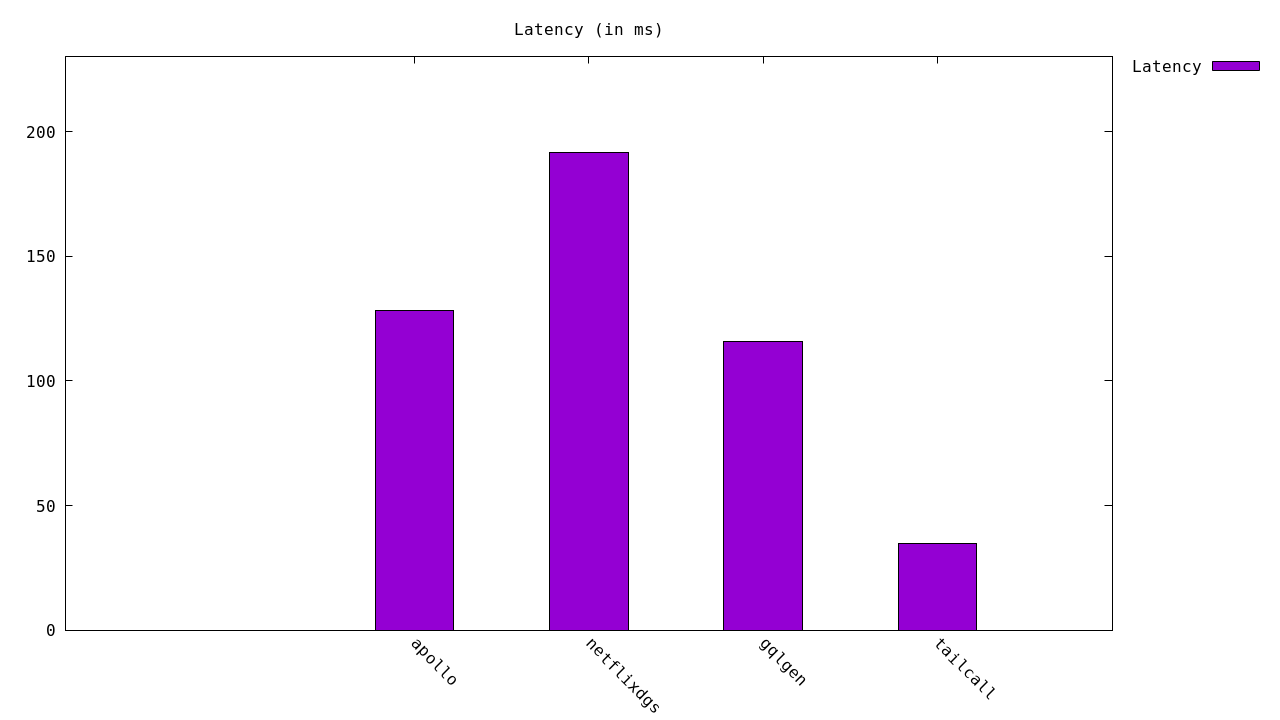
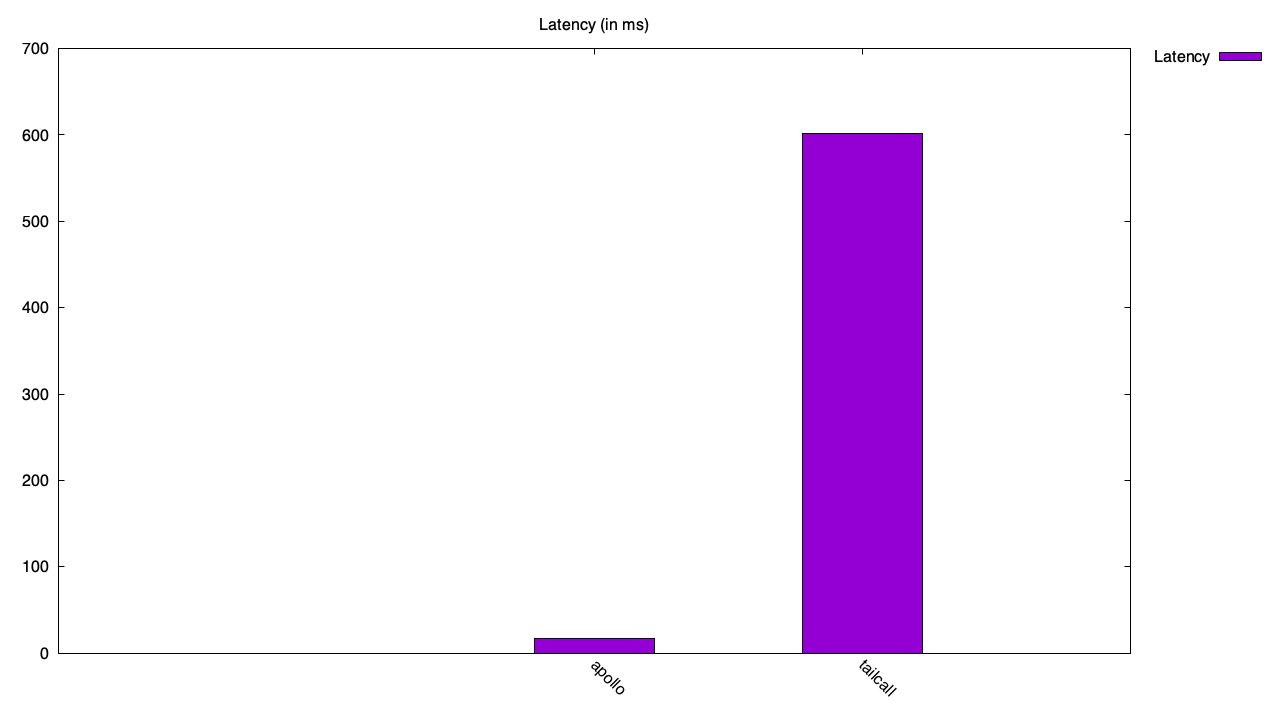
Updated performance results in README.md

diff --git a/README.md b/README.md
@@ -42,14 +42,10 @@ Get started with the benchmarks:
 ## Benchmark Results
 
 <!-- PERFORMANCE_RESULTS_START -->
-
-| Server           | Requests/sec | Latency (ms) |
-| ---------------- | -----------: | -----------: |
-| [Tailcall]       |   `2,890.68` |      `34.69` |
-| [Gqlgen]         |     `935.00` |     `115.73` |
-| [Apollo GraphQL] |     `793.37` |     `128.22` |
-| [Netflix DGS]    |     `597.39` |     `191.85` |
-
+| Server | Requests/sec | Latency (ms) |
+|--------|--------------|--------------|
+| apollo | 0 | 16.896666666666665 |
+| tailcall | 0 | 602.0966666666667 |
 <!-- PERFORMANCE_RESULTS_END -->
 
 ### Throughput (Higher is better)
